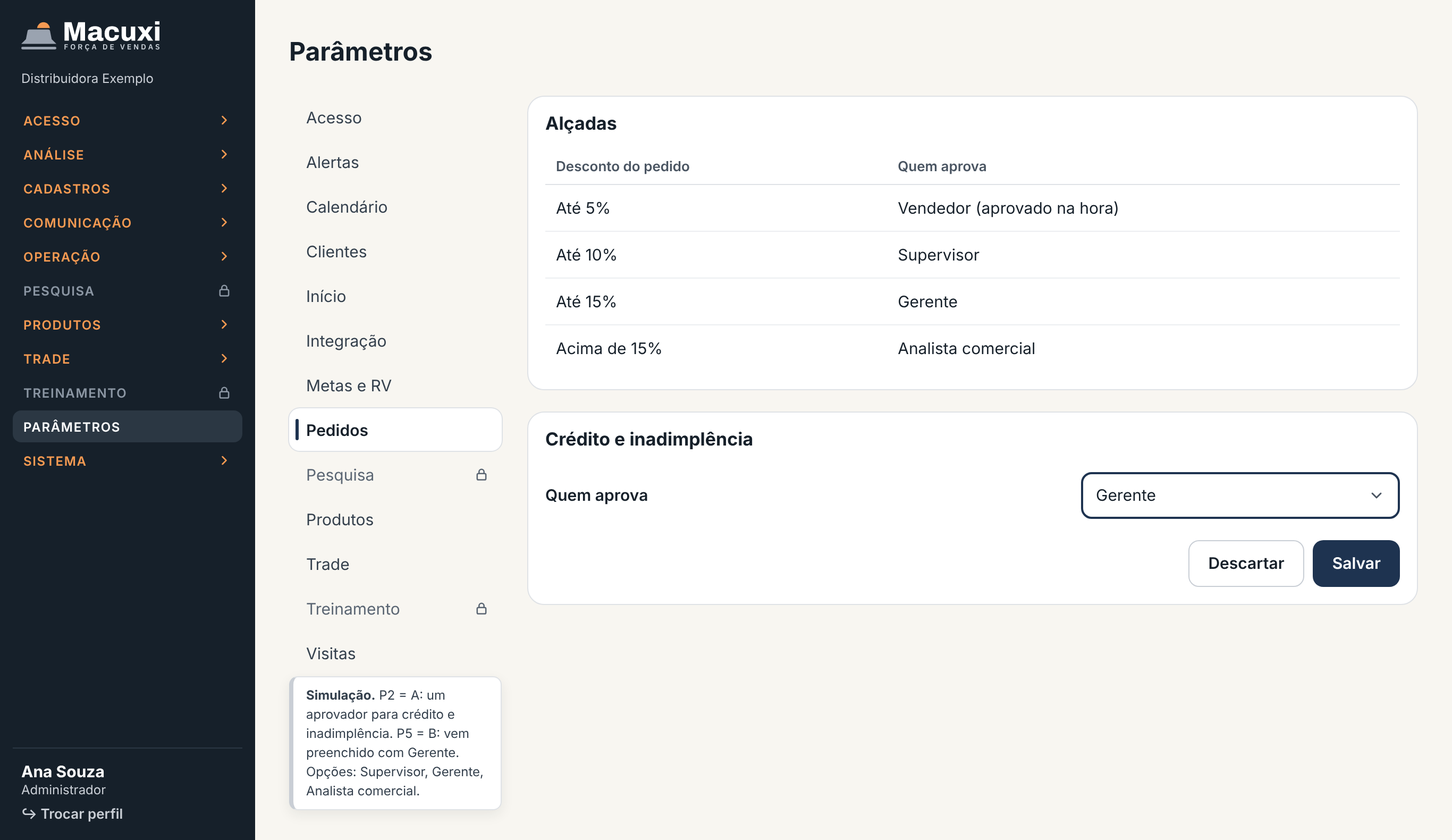
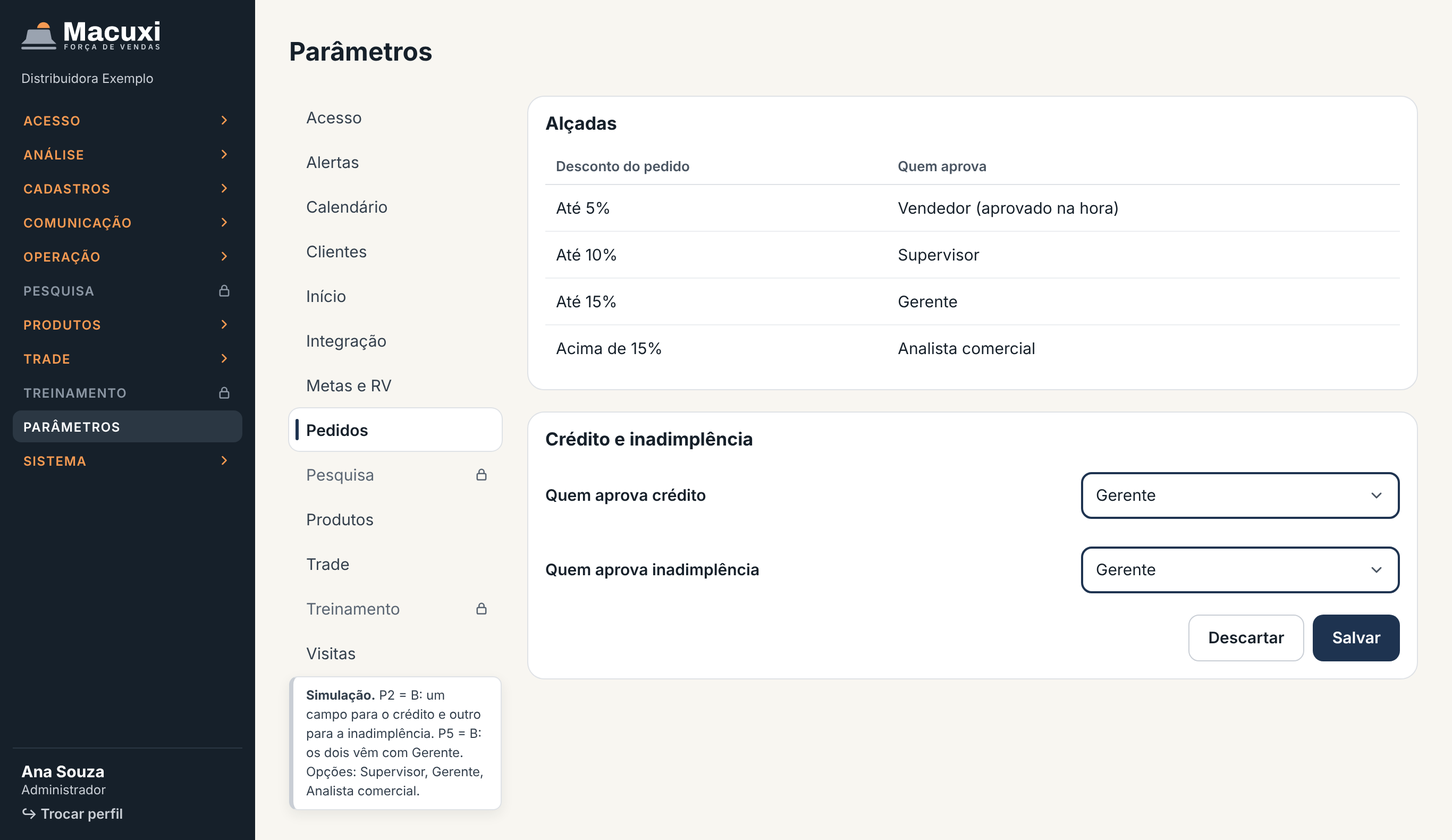
designer-ux — v1.0.15 simulações: decisões P1-P6 nas pranchas 01-03, P7 e P8 abertos, pareceres do #492
- 01: "Quem aprova crédito" e "Quem aprova inadimplência", os dois com Gerente (P2 B, P5 B).
- 02 e 03: uma aprovação por motivo (P3 B); Histórico com cada motivo e quem aprovou, tom destaque (MC-1744);
  recusa em Alertas; fila do Gerente com um item por motivo; "Decidir" em 12.
- spec.md: decisões de 18/11, P7 (ordem) e P8 (rejeição) com recomendação; substitui bko-revisao.md 246-250 e 358-359 (RD-2231).
- RD-2230 Valor final; RD-2232 notas repetidas fora; RD-2235 navegador comum em docs/design/_comum e checagem do app valendo.

Agente: designer-ux

Claude-Session: https://claude.ai/code/session_019xHEXrPzgn3fNKy4GEjQ9e

Changed region(s): [[0.7467, 0.6203, 0.9645, 0.8063], [0.2178, 0.8373, 0.3422, 0.8994], [0.3734, 0.6513, 0.5289, 0.6823]]

diff --git a/docs/design/pedido-aprovacao/01-bko-parametros-pedidos.html b/docs/design/pedido-aprovacao/01-bko-parametros-pedidos.html
@@ -109,10 +109,11 @@ table.ped .vz{color:#5B6673}
 .acs .sel{width:196px;height:36px;border-radius:8px;padding:0 10px}
 .acs .sel.vazia span{color:#5B6673}
 .b{height:36px;border-radius:8px;padding:0 14px;font-size:15px;font-weight:600;display:inline-flex;align-items:center;white-space:nowrap;border:1px solid #C9CED5;background:#fff;color:#16202A}
-</style><body><nav class="menu"><div class="brand"><img src="../../marca/ativos/2026-11-12-v1/macuxi-logo-negativo-grafite.svg" height="28" alt="Macuxi Força de Vendas"><span>Distribuidora Exemplo</span></div><div class="lista"><div class="grupo"><div class="titulo" aria-expanded="false"><span>Acesso</span><svg width="14" height="14" viewBox="0 0 24 24" fill="none" stroke="currentColor" stroke-width="2.2" stroke-linecap="round" stroke-linejoin="round" style="transform:rotate(0deg)"><path d="M9 6l6 6-6 6"/></svg></div></div><div class="grupo"><div class="titulo" aria-expanded="false"><span>Análise</span><svg width="14" height="14" viewBox="0 0 24 24" fill="none" stroke="currentColor" stroke-width="2.2" stroke-linecap="round" stroke-linejoin="round" style="transform:rotate(0deg)"><path d="M9 6l6 6-6 6"/></svg></div></div><div class="grupo"><div class="titulo" aria-expanded="false"><span>Cadastros</span><svg width="14" height="14" viewBox="0 0 24 24" fill="none" stroke="currentColor" stroke-width="2.2" stroke-linecap="round" stroke-linejoin="round" style="transform:rotate(0deg)"><path d="M9 6l6 6-6 6"/></svg></div></div><div class="grupo"><div class="titulo" aria-expanded="false"><span>Comunicação</span><svg width="14" height="14" viewBox="0 0 24 24" fill="none" stroke="currentColor" stroke-width="2.2" stroke-linecap="round" stroke-linejoin="round" style="transform:rotate(0deg)"><path d="M9 6l6 6-6 6"/></svg></div></div><div class="grupo"><div class="titulo" aria-expanded="false"><span>Operação</span><svg width="14" height="14" viewBox="0 0 24 24" fill="none" stroke="currentColor" stroke-width="2.2" stroke-linecap="round" stroke-linejoin="round" style="transform:rotate(0deg)"><path d="M9 6l6 6-6 6"/></svg></div></div><div class="titulo bloq" id="m-pesquisa" role="link" aria-disabled="true" aria-describedby="dica" tabindex="0"><span>Pesquisa</span><svg class="cad" width="14" height="14" viewBox="0 0 24 24" fill="none" stroke="currentColor" stroke-width="2.2" stroke-linecap="round" stroke-linejoin="round" aria-hidden="true"><rect x="5" y="11" width="14" height="10" rx="2"/><path d="M8 11V8a4 4 0 0 1 8 0v3"/></svg></div><div class="grupo"><div class="titulo" aria-expanded="false"><span>Produtos</span><svg width="14" height="14" viewBox="0 0 24 24" fill="none" stroke="currentColor" stroke-width="2.2" stroke-linecap="round" stroke-linejoin="round" style="transform:rotate(0deg)"><path d="M9 6l6 6-6 6"/></svg></div></div><div class="grupo"><div class="titulo" aria-expanded="false"><span>Trade</span><svg width="14" height="14" viewBox="0 0 24 24" fill="none" stroke="currentColor" stroke-width="2.2" stroke-linecap="round" stroke-linejoin="round" style="transform:rotate(0deg)"><path d="M9 6l6 6-6 6"/></svg></div></div><div class="titulo bloq" id="m-treinamento" role="link" aria-disabled="true" aria-describedby="dica" tabindex="0"><span>Treinamento</span><svg class="cad" width="14" height="14" viewBox="0 0 24 24" fill="none" stroke="currentColor" stroke-width="2.2" stroke-linecap="round" stroke-linejoin="round" aria-hidden="true"><rect x="5" y="11" width="14" height="10" rx="2"/><path d="M8 11V8a4 4 0 0 1 8 0v3"/></svg></div><a class="titulo direto ativo" aria-current="page"><span>Parâmetros</span></a><div class="grupo"><div class="titulo" aria-expanded="false"><span>Sistema</span><svg width="14" height="14" viewBox="0 0 24 24" fill="none" stroke="currentColor" stroke-width="2.2" stroke-linecap="round" stroke-linejoin="round" style="transform:rotate(0deg)"><path d="M9 6l6 6-6 6"/></svg></div></div></div><div class="rodape"><b>Ana Souza</b><span>Administrador</span><div class="sair">↪ Trocar perfil</div></div></nav><div class="dica" id="dica" role="tooltip" hidden>Contrate o módulo para usar</div><main><h1>Parâmetros</h1><div class="corpo"><nav class="secoes" aria-label="Seções de Parâmetros"><a class="sec">Acesso</a><a class="sec">Alertas</a><a class="sec">Calendário</a><a class="sec">Clientes</a><a class="sec">Início</a><a class="sec">Integração</a><a class="sec">Metas e RV</a><a class="sec ativo" aria-current="page">Pedidos</a><a class="sec bloq"><span>Pesquisa</span><svg class="cad" width="14" height="14" viewBox="0 0 24 24" fill="none" stroke="currentColor" stroke-width="2.2" stroke-linecap="round" stroke-linejoin="round" aria-hidden="true"><rect x="5" y="11" width="14" height="10" rx="2"/><path d="M8 11V8a4 4 0 0 1 8 0v3"/></svg></a><a class="sec">Produtos</a><a class="sec">Trade</a><a class="sec bloq"><span>Treinamento</span><svg class="cad" width="14" height="14" viewBox="0 0 24 24" fill="none" stroke="currentColor" stroke-width="2.2" stroke-linecap="round" stroke-linejoin="round" aria-hidden="true"><rect x="5" y="11" width="14" height="10" rx="2"/><path d="M8 11V8a4 4 0 0 1 8 0v3"/></svg></a><a class="sec">Visitas</a><div class="nota"><b>Simulação.</b> P2 = A: um aprovador para crédito e inadimplência. P5 = B: vem preenchido com Gerente. Opções: Supervisor, Gerente, Analista comercial.</div></nav><div class="conteudo"><section class="quadro"><h2>Alçadas</h2><table><colgroup><col style="width:40%"><col></colgroup><thead><tr><th>Desconto do pedido</th><th>Quem aprova</th></tr></thead><tbody>
+</style><body><nav class="menu"><div class="brand"><img src="../../marca/ativos/2026-11-12-v1/macuxi-logo-negativo-grafite.svg" height="28" alt="Macuxi Força de Vendas"><span>Distribuidora Exemplo</span></div><div class="lista"><div class="grupo"><div class="titulo" aria-expanded="false"><span>Acesso</span><svg width="14" height="14" viewBox="0 0 24 24" fill="none" stroke="currentColor" stroke-width="2.2" stroke-linecap="round" stroke-linejoin="round" style="transform:rotate(0deg)"><path d="M9 6l6 6-6 6"/></svg></div></div><div class="grupo"><div class="titulo" aria-expanded="false"><span>Análise</span><svg width="14" height="14" viewBox="0 0 24 24" fill="none" stroke="currentColor" stroke-width="2.2" stroke-linecap="round" stroke-linejoin="round" style="transform:rotate(0deg)"><path d="M9 6l6 6-6 6"/></svg></div></div><div class="grupo"><div class="titulo" aria-expanded="false"><span>Cadastros</span><svg width="14" height="14" viewBox="0 0 24 24" fill="none" stroke="currentColor" stroke-width="2.2" stroke-linecap="round" stroke-linejoin="round" style="transform:rotate(0deg)"><path d="M9 6l6 6-6 6"/></svg></div></div><div class="grupo"><div class="titulo" aria-expanded="false"><span>Comunicação</span><svg width="14" height="14" viewBox="0 0 24 24" fill="none" stroke="currentColor" stroke-width="2.2" stroke-linecap="round" stroke-linejoin="round" style="transform:rotate(0deg)"><path d="M9 6l6 6-6 6"/></svg></div></div><div class="grupo"><div class="titulo" aria-expanded="false"><span>Operação</span><svg width="14" height="14" viewBox="0 0 24 24" fill="none" stroke="currentColor" stroke-width="2.2" stroke-linecap="round" stroke-linejoin="round" style="transform:rotate(0deg)"><path d="M9 6l6 6-6 6"/></svg></div></div><div class="titulo bloq" id="m-pesquisa" role="link" aria-disabled="true" aria-describedby="dica" tabindex="0"><span>Pesquisa</span><svg class="cad" width="14" height="14" viewBox="0 0 24 24" fill="none" stroke="currentColor" stroke-width="2.2" stroke-linecap="round" stroke-linejoin="round" aria-hidden="true"><rect x="5" y="11" width="14" height="10" rx="2"/><path d="M8 11V8a4 4 0 0 1 8 0v3"/></svg></div><div class="grupo"><div class="titulo" aria-expanded="false"><span>Produtos</span><svg width="14" height="14" viewBox="0 0 24 24" fill="none" stroke="currentColor" stroke-width="2.2" stroke-linecap="round" stroke-linejoin="round" style="transform:rotate(0deg)"><path d="M9 6l6 6-6 6"/></svg></div></div><div class="grupo"><div class="titulo" aria-expanded="false"><span>Trade</span><svg width="14" height="14" viewBox="0 0 24 24" fill="none" stroke="currentColor" stroke-width="2.2" stroke-linecap="round" stroke-linejoin="round" style="transform:rotate(0deg)"><path d="M9 6l6 6-6 6"/></svg></div></div><div class="titulo bloq" id="m-treinamento" role="link" aria-disabled="true" aria-describedby="dica" tabindex="0"><span>Treinamento</span><svg class="cad" width="14" height="14" viewBox="0 0 24 24" fill="none" stroke="currentColor" stroke-width="2.2" stroke-linecap="round" stroke-linejoin="round" aria-hidden="true"><rect x="5" y="11" width="14" height="10" rx="2"/><path d="M8 11V8a4 4 0 0 1 8 0v3"/></svg></div><a class="titulo direto ativo" aria-current="page"><span>Parâmetros</span></a><div class="grupo"><div class="titulo" aria-expanded="false"><span>Sistema</span><svg width="14" height="14" viewBox="0 0 24 24" fill="none" stroke="currentColor" stroke-width="2.2" stroke-linecap="round" stroke-linejoin="round" style="transform:rotate(0deg)"><path d="M9 6l6 6-6 6"/></svg></div></div></div><div class="rodape"><b>Ana Souza</b><span>Administrador</span><div class="sair">↪ Trocar perfil</div></div></nav><div class="dica" id="dica" role="tooltip" hidden>Contrate o módulo para usar</div><main><h1>Parâmetros</h1><div class="corpo"><nav class="secoes" aria-label="Seções de Parâmetros"><a class="sec">Acesso</a><a class="sec">Alertas</a><a class="sec">Calendário</a><a class="sec">Clientes</a><a class="sec">Início</a><a class="sec">Integração</a><a class="sec">Metas e RV</a><a class="sec ativo" aria-current="page">Pedidos</a><a class="sec bloq"><span>Pesquisa</span><svg class="cad" width="14" height="14" viewBox="0 0 24 24" fill="none" stroke="currentColor" stroke-width="2.2" stroke-linecap="round" stroke-linejoin="round" aria-hidden="true"><rect x="5" y="11" width="14" height="10" rx="2"/><path d="M8 11V8a4 4 0 0 1 8 0v3"/></svg></a><a class="sec">Produtos</a><a class="sec">Trade</a><a class="sec bloq"><span>Treinamento</span><svg class="cad" width="14" height="14" viewBox="0 0 24 24" fill="none" stroke="currentColor" stroke-width="2.2" stroke-linecap="round" stroke-linejoin="round" aria-hidden="true"><rect x="5" y="11" width="14" height="10" rx="2"/><path d="M8 11V8a4 4 0 0 1 8 0v3"/></svg></a><a class="sec">Visitas</a><div class="nota"><b>Simulação.</b> P2 = B: um campo para o crédito e outro para a inadimplência. P5 = B: os dois vêm com Gerente. Opções: Supervisor, Gerente, Analista comercial.</div></nav><div class="conteudo"><section class="quadro"><h2>Alçadas</h2><table><colgroup><col style="width:40%"><col></colgroup><thead><tr><th>Desconto do pedido</th><th>Quem aprova</th></tr></thead><tbody>
 <tr><td>Até 5%</td><td>Vendedor (aprovado na hora)</td></tr><tr><td>Até 10%</td><td>Supervisor</td></tr><tr><td>Até 15%</td><td>Gerente</td></tr><tr><td>Acima de 15%</td><td>Analista comercial</td></tr>
 </tbody></table></section><section class="quadro"><h2>Crédito e inadimplência</h2>
-<div class="linha"><b>Quem aprova</b><div class="sel editado" role="combobox" aria-label="Quem aprova o pedido por crédito ou inadimplência"><span>Gerente</span><svg width="16" height="16" viewBox="0 0 24 24" fill="none" stroke="currentColor" stroke-width="2.2" stroke-linecap="round" stroke-linejoin="round"><path d="M6 9l6 6 6-6"/></svg></div></div>
+<div class="linha"><b>Quem aprova crédito</b><div class="sel editado" role="combobox" aria-label="Quem aprova o pedido por crédito"><span>Gerente</span><svg width="16" height="16" viewBox="0 0 24 24" fill="none" stroke="currentColor" stroke-width="2.2" stroke-linecap="round" stroke-linejoin="round"><path d="M6 9l6 6 6-6"/></svg></div></div>
+<div class="linha"><b>Quem aprova inadimplência</b><div class="sel editado" role="combobox" aria-label="Quem aprova o pedido de cliente inadimplente"><span>Gerente</span><svg width="16" height="16" viewBox="0 0 24 24" fill="none" stroke="currentColor" stroke-width="2.2" stroke-linecap="round" stroke-linejoin="round"><path d="M6 9l6 6 6-6"/></svg></div></div>
 <div class="acoes"><span class="btn s">Descartar</span><span class="btn p">Salvar</span></div></section></div></div></main><script>document.fonts.ready.then(()=>{const d=document.getElementById('dica'),t=document.querySelector('[data-dica]');if(t&&!d.hidden){const r=t.getBoundingClientRect();d.style.left=(r.right+10)+'px';d.style.top=(r.top+r.height/2-d.offsetHeight/2)+'px';}
 const sobre=[...document.querySelectorAll('.dica:not([hidden]),.nota')].map(e=>e.getBoundingClientRect());const conflitos=[];
 for(const el of document.querySelectorAll('main *')){if(el.closest('.nota'))continue;if(el.children.length&&!el.matches('td,th,.input,.btn,.selo,h1,h2,legend,small,.dia,.sec'))continue;const r=el.getBoundingClientRect();if(!r.width||!r.height)continue;for(const s of sobre){if(r.left<s.right&&r.right>s.left&&r.top<s.bottom&&r.bottom>s.top)conflitos.push(el.tagName+'.'+el.className+': '+el.textContent.trim().slice(0,30));}}

diff --git a/docs/design/pedido-aprovacao/02-campo-enviar-e-detalhe.html b/docs/design/pedido-aprovacao/02-campo-enviar-e-detalhe.html
@@ -20,7 +20,9 @@ body{font-family:system-ui,'Segoe UI',Roboto,-apple-system,sans-serif;background
 .tl{display:flex;justify-content:space-between;align-items:center;gap:8px;min-height:40px;padding:0 12px;font-size:14px;border-bottom:1px solid #ECEEF1}
 .tl:last-child{border-bottom:0}
 .tl span:last-child{font-variant-numeric:tabular-nums;text-align:right}
-.tl.f{font-weight:600;font-size:16px}
+.tl.f{min-height:48px}
+.tl.f span:first-child{font-size:15px;font-weight:600}
+.tl.f span:last-child{font-size:22px;font-weight:700}
 .rod{padding:12px 16px 16px;background:#fff;border-top:1px solid #DFE2E6;display:flex;flex-direction:column;gap:8px}
 .bt{height:52px;border-radius:14px;background:#1E3350;color:#fff;font-size:16px;font-weight:600;display:flex;align-items:center;justify-content:center}
 .bt.t{background:none;color:#1E3350;height:44px}
@@ -29,10 +31,12 @@ body{font-family:system-ui,'Segoe UI',Roboto,-apple-system,sans-serif;background
 .dlg h2{font-size:22px;font-weight:700}
 .dlg .bts{display:flex;justify-content:flex-end;gap:8px}
 .dlg .bt{height:44px;padding:0 20px;border-radius:12px}
+/* Tags do Histórico (packages/ui/src/comum/historico.ts): neutro, destaque (etapa atual, MC-1744), sucesso, erro; 12 px. */
 .hist{display:flex;flex-wrap:wrap;gap:6px}
-.tag{height:28px;border-radius:999px;padding:0 10px;font-size:12.5px;display:inline-flex;align-items:center;background:#ECEEF1;color:#34404D;font-weight:500}
-.tag.at{background:#FFF1D6;color:#5C3B00;font-weight:700}
-.tag i{font-style:normal;font-weight:500;margin-left:6px}
+.tag{height:28px;border-radius:999px;padding:0 10px;font-size:12px;display:inline-flex;align-items:center;background:#ECEEF1;color:#34404D;font-weight:500;white-space:nowrap}
+.tag.at{background:#DFE2E6;color:#1E3350;font-weight:600}
+.tag.ok{background:#E2F1EA;color:#1D6B4F}
+.tag.er{background:#FDE8E6;color:#A8261B}
 .it{display:flex;flex-direction:column;gap:6px;padding:12px 16px;border-bottom:1px solid #ECEEF1}
 .it:last-child{border-bottom:0}
 .it .a{display:flex;justify-content:space-between;gap:8px;font-size:16px;font-weight:600}
@@ -41,22 +45,35 @@ body{font-family:system-ui,'Segoe UI',Roboto,-apple-system,sans-serif;background
 .it .c{display:flex;justify-content:space-between;align-items:center}
 .chip{height:24px;border-radius:999px;padding:0 8px;font-size:12px;font-weight:600;display:inline-flex;align-items:center;background:#FFF1D6;color:#5C3B00}
 .chip.ne{background:#ECEEF1;color:#34404D}
-.dec{font-size:14px;font-weight:600;color:#1E3350}
+.dec{font-size:12px;font-weight:600;color:#1E3350;min-height:44px;min-width:64px;display:inline-flex;align-items:center;justify-content:flex-end}
 .nota{font-size:12px;line-height:1.5;color:#34404D;background:#fff;border:1px solid #DFE2E6;border-left:4px solid #C9CED5;border-radius:8px;padding:8px 12px}
 .barra{height:56px;background:#fff;border-top:1px solid #DFE2E6;display:flex}
 .barra span{flex:1;display:flex;align-items:center;justify-content:center;font-size:12px;font-weight:600;color:#4A5562}
 .barra span.on{color:#1E3350}
-</style><body><div class="col"><span class="leg">Campo · Novo pedido, Resumo: os motivos em Alertas e a pergunta de sempre</span><div class="tel"><div class="st"><span>09:41</span><span>4G</span></div><div class="fx"><span class="v">‹ Pedidos</span><h1>Novo pedido</h1><span class="s">Mercado Bom Preço · cód. C5007</span></div>
+</style><body><div class="col"><span class="leg">Campo · Novo pedido, Resumo: os motivos em Alertas e a pergunta de sempre</span><div class="tel"><div class="st"><span>09:12</span><span>4G</span></div><div class="fx"><span class="v">‹ Pedidos</span><h1>Novo pedido</h1><span class="s">Mercado Bom Preço · cód. C5007</span></div>
 <div class="abas"><span class="aba">Venda</span><span class="aba">Itens</span><span class="aba">Entrega</span><span class="aba on">Resumo</span></div>
 <div class="corpo"><span class="tit al">Alertas</span><div class="cx">
 <div class="al-l"><svg width="18" height="18" viewBox="0 0 24 24" fill="none" stroke="currentColor" stroke-width="2.2" stroke-linecap="round" stroke-linejoin="round"><path d="M12 3l10 18H2z"/><path d="M12 10v5M12 18v.01"/></svg><span>Limite de crédito excedido</span></div>
 <div class="al-l"><svg width="18" height="18" viewBox="0 0 24 24" fill="none" stroke="currentColor" stroke-width="2.2" stroke-linecap="round" stroke-linejoin="round"><path d="M12 3l10 18H2z"/><path d="M12 10v5M12 18v.01"/></svg><span>Título vencido</span></div></div>
 <span class="tit">Pagamento</span><div class="cx"><div class="tl"><span>Boleto</span><span>28/56 dias</span></div></div>
-<span class="tit">Totais</span><div class="cx"><div class="tl"><span>Itens (12)</span><span>R$ 2.480,00</span></div><div class="tl f"><span>Total</span><span>R$ 2.480,00</span></div></div></div>
+<span class="tit">Totais</span><div class="cx"><div class="tl f"><span>Valor final</span><span>R$ 2.480,00</span></div></div></div>
 <div class="rod"><span class="bt">Salvar e enviar pedido</span><span class="bt t">Apenas salvar</span></div>
-<div class="scrim"><div class="dlg"><h2>Enviar para aprovação?</h2><div class="bts"><span class="bt t">Voltar</span><span class="bt">Enviar</span></div></div></div></div><div class="nota">Os textos de Alertas já existem (pedido-v4 §0.1). Muda o efeito: crédito e título vencido mandam para aprovação, como a alçada.</div></div><div class="col"><span class="leg">Campo · Pedido em aprovação: o motivo na etapa atual do Histórico</span><div class="tel"><div class="st"><span>09:41</span><span>4G</span></div><div class="fx"><span class="v">‹ Pedidos</span><h1>Pedido 000021</h1><span class="s">Mercado Bom Preço · cód. C5007</span></div>
+<div class="scrim"><div class="dlg"><h2>Enviar para aprovação?</h2><div class="bts"><span class="bt t">Voltar</span><span class="bt">Enviar</span></div></div></div></div></div><div class="col"><span class="leg">Campo · Em aprovação: uma etapa por motivo, aprovadas ao mesmo tempo (P3 B, P7 A)</span><div class="tel"><div class="st"><span>10:10</span><span>4G</span></div><div class="fx"><span class="v">‹ Pedidos</span><h1>Pedido 000021</h1><span class="s">Mercado Bom Preço · cód. C5007</span></div>
 <div class="corpo"><div class="cx"><div class="tl"><span>Pagamento</span><span>Boleto · 28/56 dias</span></div><div class="tl"><span>Entrega</span><span>CIF · Av. Ville Roy, 1200</span></div></div>
 <span class="tit">Itens (12)</span><div class="cx"><div class="tl"><span>Arroz 5 kg · 10 CX</span><span>R$ 1.290,00</span></div><div class="tl"><span>Feijão 1 kg · 8 CX</span><span>R$ 742,00</span></div><div class="tl"><span>+ 10 itens</span><span></span></div></div>
-<span class="tit">Totais</span><div class="cx"><div class="tl f"><span>Total</span><span>R$ 2.480,00</span></div></div>
-<span class="tit">Histórico</span><div class="hist"><span class="tag">Salvo · 18/11 09:10</span><span class="tag">Enviado · 18/11 09:12</span><span class="tag at">Em aprovação<i>· Crédito · Inadimplente</i></span></div></div>
-<div class="rod"><span class="bt t">PDF · Duplicar</span></div></div><div class="nota">Sem Alertas: o pedido em aprovação não tem o que corrigir. O motivo aparece uma vez, na etapa "Em aprovação".</div></div><script>document.body.dataset.info=JSON.stringify({conflitos:[]});document.body.dataset.pronto='1'</script></body></html>
+<span class="tit">Totais</span><div class="cx"><div class="tl f"><span>Valor final</span><span>R$ 2.480,00</span></div></div>
+<span class="tit">Histórico</span><div class="hist"><span class="tag">Salvo · 18/11 09:10</span><span class="tag">Enviado · 18/11 09:12</span><span class="tag ok">Aprovado · Inadimplente · Rui Matos · 18/11 10:05</span><span class="tag at">Em aprovação · Crédito</span></div></div>
+<div class="rod"><span class="bt t">PDF · Duplicar</span></div></div></div><div class="col"><span class="leg">Campo · Crédito devolvido: a aprovação pendente se encerra e o pedido volta para corrigir (P8 A)</span><div class="tel"><div class="st"><span>10:25</span><span>4G</span></div><div class="fx"><span class="v">‹ Pedidos</span><h1>Pedido 000021</h1><span class="s">Mercado Bom Preço · cód. C5007</span></div>
+<div class="corpo"><span class="tit al">Alertas</span><div class="cx"><div class="al-l"><svg width="18" height="18" viewBox="0 0 24 24" fill="none" stroke="currentColor" stroke-width="2.2" stroke-linecap="round" stroke-linejoin="round"><path d="M12 3l10 18H2z"/><path d="M12 10v5M12 18v.01"/></svg><span>Reduza para até R$ 1.880,00</span></div></div><div class="cx"><div class="tl"><span>Pagamento</span><span>Boleto · 28/56 dias</span></div><div class="tl"><span>Entrega</span><span>CIF · Av. Ville Roy, 1200</span></div></div>
+<span class="tit">Itens (12)</span><div class="cx"><div class="tl"><span>Arroz 5 kg · 10 CX</span><span>R$ 1.290,00</span></div><div class="tl"><span>Feijão 1 kg · 8 CX</span><span>R$ 742,00</span></div><div class="tl"><span>+ 10 itens</span><span></span></div></div>
+<span class="tit">Totais</span><div class="cx"><div class="tl f"><span>Valor final</span><span>R$ 2.480,00</span></div></div>
+<span class="tit">Histórico</span><div class="hist"><span class="tag">Salvo · 18/11 09:10</span><span class="tag">Enviado · 18/11 09:12</span><span class="tag er">Rejeitado · Crédito · Rui Matos · 18/11 10:20</span></div></div>
+<div class="rod"><span class="bt">Corrigir pedido</span></div></div></div><script>(()=>{const conflitos=[];
+for(const col of document.querySelectorAll('.col')){const tel=col.querySelector('.tel').getBoundingClientRect();
+const sobre=[...col.querySelectorAll('.leg,.nota')].map(e=>[e.className,e.getBoundingClientRect()]);
+for(const el of col.querySelectorAll('.tel *')){if(el.children.length&&!el.matches('.tag,.chip,.bt,.dec,h1,h2'))continue;
+const r=el.getBoundingClientRect();if(!r.width||!r.height)continue;const t=el.className+': '+el.textContent.trim().slice(0,30);
+for(const [n,s] of sobre){if(r.left<s.right&&r.right>s.left&&r.top<s.bottom&&r.bottom>s.top)conflitos.push(n+' cobre '+t);}
+if(r.left<tel.left-1||r.right>tel.right+1||r.top<tel.top-1||r.bottom>tel.bottom+1)conflitos.push('fora do aparelho: '+t);
+if(el.scrollWidth>el.clientWidth+1&&getComputedStyle(el).overflow!=='visible')conflitos.push('cortado: '+t);}}
+document.body.dataset.info=JSON.stringify({conflitos});document.body.dataset.pronto='1';})()</script></body></html>

diff --git a/docs/design/pedido-aprovacao/03-gestao-aprovacoes.html b/docs/design/pedido-aprovacao/03-gestao-aprovacoes.html
@@ -20,7 +20,9 @@ body{font-family:system-ui,'Segoe UI',Roboto,-apple-system,sans-serif;background
 .tl{display:flex;justify-content:space-between;align-items:center;gap:8px;min-height:40px;padding:0 12px;font-size:14px;border-bottom:1px solid #ECEEF1}
 .tl:last-child{border-bottom:0}
 .tl span:last-child{font-variant-numeric:tabular-nums;text-align:right}
-.tl.f{font-weight:600;font-size:16px}
+.tl.f{min-height:48px}
+.tl.f span:first-child{font-size:15px;font-weight:600}
+.tl.f span:last-child{font-size:22px;font-weight:700}
 .rod{padding:12px 16px 16px;background:#fff;border-top:1px solid #DFE2E6;display:flex;flex-direction:column;gap:8px}
 .bt{height:52px;border-radius:14px;background:#1E3350;color:#fff;font-size:16px;font-weight:600;display:flex;align-items:center;justify-content:center}
 .bt.t{background:none;color:#1E3350;height:44px}
@@ -29,10 +31,12 @@ body{font-family:system-ui,'Segoe UI',Roboto,-apple-system,sans-serif;background
 .dlg h2{font-size:22px;font-weight:700}
 .dlg .bts{display:flex;justify-content:flex-end;gap:8px}
 .dlg .bt{height:44px;padding:0 20px;border-radius:12px}
+/* Tags do Histórico (packages/ui/src/comum/historico.ts): neutro, destaque (etapa atual, MC-1744), sucesso, erro; 12 px. */
 .hist{display:flex;flex-wrap:wrap;gap:6px}
-.tag{height:28px;border-radius:999px;padding:0 10px;font-size:12.5px;display:inline-flex;align-items:center;background:#ECEEF1;color:#34404D;font-weight:500}
-.tag.at{background:#FFF1D6;color:#5C3B00;font-weight:700}
-.tag i{font-style:normal;font-weight:500;margin-left:6px}
+.tag{height:28px;border-radius:999px;padding:0 10px;font-size:12px;display:inline-flex;align-items:center;background:#ECEEF1;color:#34404D;font-weight:500;white-space:nowrap}
+.tag.at{background:#DFE2E6;color:#1E3350;font-weight:600}
+.tag.ok{background:#E2F1EA;color:#1D6B4F}
+.tag.er{background:#FDE8E6;color:#A8261B}
 .it{display:flex;flex-direction:column;gap:6px;padding:12px 16px;border-bottom:1px solid #ECEEF1}
 .it:last-child{border-bottom:0}
 .it .a{display:flex;justify-content:space-between;gap:8px;font-size:16px;font-weight:600}
@@ -41,14 +45,22 @@ body{font-family:system-ui,'Segoe UI',Roboto,-apple-system,sans-serif;background
 .it .c{display:flex;justify-content:space-between;align-items:center}
 .chip{height:24px;border-radius:999px;padding:0 8px;font-size:12px;font-weight:600;display:inline-flex;align-items:center;background:#FFF1D6;color:#5C3B00}
 .chip.ne{background:#ECEEF1;color:#34404D}
-.dec{font-size:14px;font-weight:600;color:#1E3350}
+.dec{font-size:12px;font-weight:600;color:#1E3350;min-height:44px;min-width:64px;display:inline-flex;align-items:center;justify-content:flex-end}
 .nota{font-size:12px;line-height:1.5;color:#34404D;background:#fff;border:1px solid #DFE2E6;border-left:4px solid #C9CED5;border-radius:8px;padding:8px 12px}
 .barra{height:56px;background:#fff;border-top:1px solid #DFE2E6;display:flex}
 .barra span{flex:1;display:flex;align-items:center;justify-content:center;font-size:12px;font-weight:600;color:#4A5562}
 .barra span.on{color:#1E3350}
-</style><body><div class="col"><span class="leg">Gestão · Aprovações: a linha de motivos ganha "Inadimplente há N dias"</span><div class="tel"><div class="st"><span>09:41</span><span>4G</span></div><div class="fx"><h1>Aprovações</h1><span class="s">3 aguardando</span></div>
+</style><body><div class="col"><span class="leg">Gestão · Aprovações do Gerente: um item por motivo, só os motivos dele (P3 B)</span><div class="tel"><div class="st"><span>09:41</span><span>4G</span></div><div class="fx"><h1>Aprovações</h1><span class="s">3 aguardando</span></div>
 <div class="corpo" style="padding:12px 0 0"><div class="cx" style="border-radius:0;border-left:0;border-right:0">
-<div class="it"><div class="a"><span>Mercado Bom Preço</span><span>R$ 2.480,00</span></div><span class="m">Crédito disponível R$ 1.880,00 · Inadimplente há 12 dias</span><div class="c"><span class="chip">Vence hoje</span><span class="dec">Decidir</span></div></div>
-<div class="it"><div class="a"><span>Supermercado Rio Branco</span><span>R$ 1.150,00</span></div><span class="m">Desconto 12%</span><div class="c"><span class="chip ne">1 dia útil</span><span class="dec">Decidir</span></div></div>
-<div class="it"><div class="a"><span>Empório Caxangá</span><span>R$ 3.310,00</span></div><span class="m">Desconto 9% · Crédito disponível R$ 2.000,00</span><div class="c"><span class="chip ne">2 dias úteis</span><span class="dec">Decidir</span></div></div>
-</div></div><div class="barra"><span>Início</span><span>Equipe</span><span class="on">Aprovações</span><span>Alertas</span></div></div><div class="nota">P3 = A: um pedido, uma aprovação, todos os motivos na linha. O 1º item é o pedido 000021 do Campo.</div></div><script>document.body.dataset.info=JSON.stringify({conflitos:[]});document.body.dataset.pronto='1'</script></body></html>
+<div class="it"><div class="a"><span>Mercado Bom Preço</span><span>R$ 2.480,00</span></div><span class="m">Nº 000021 · Crédito disponível R$ 1.880,00</span><div class="c"><span class="chip">Vence hoje</span><span class="dec">Decidir</span></div></div>
+<div class="it"><div class="a"><span>Mercado Bom Preço</span><span>R$ 2.480,00</span></div><span class="m">Nº 000021 · Inadimplente há 12 dias</span><div class="c"><span class="chip">Vence hoje</span><span class="dec">Decidir</span></div></div>
+<div class="it"><div class="a"><span>Supermercado Rio Branco</span><span>R$ 1.150,00</span></div><span class="m">Nº 000020 · Desconto 12%</span><div class="c"><span class="chip ne">1 dia útil</span><span class="dec">Decidir</span></div></div>
+</div></div><div class="barra"><span>Início</span><span>Equipe</span><span class="on">Aprovações</span><span>Alertas</span></div></div><div class="nota">O 000020 está aqui pela alçada: desconto de 12% cabe no Gerente (até 15%).</div></div><script>(()=>{const conflitos=[];
+for(const col of document.querySelectorAll('.col')){const tel=col.querySelector('.tel').getBoundingClientRect();
+const sobre=[...col.querySelectorAll('.leg,.nota')].map(e=>[e.className,e.getBoundingClientRect()]);
+for(const el of col.querySelectorAll('.tel *')){if(el.children.length&&!el.matches('.tag,.chip,.bt,.dec,h1,h2'))continue;
+const r=el.getBoundingClientRect();if(!r.width||!r.height)continue;const t=el.className+': '+el.textContent.trim().slice(0,30);
+for(const [n,s] of sobre){if(r.left<s.right&&r.right>s.left&&r.top<s.bottom&&r.bottom>s.top)conflitos.push(n+' cobre '+t);}
+if(r.left<tel.left-1||r.right>tel.right+1||r.top<tel.top-1||r.bottom>tel.bottom+1)conflitos.push('fora do aparelho: '+t);
+if(el.scrollWidth>el.clientWidth+1&&getComputedStyle(el).overflow!=='visible')conflitos.push('cortado: '+t);}}
+document.body.dataset.info=JSON.stringify({conflitos});document.body.dataset.pronto='1';})()</script></body></html>

diff --git a/docs/design/pedido-aprovacao/spec.md b/docs/design/pedido-aprovacao/spec.md
@@ -5,28 +5,40 @@ R-20261116-143000 e R-20261118-212716 (tabela simples de Pedidos). Gerador: `nod
 
 | Prancha | O que mostra |
 |---|---|
-| `01-bko-parametros-pedidos.png` | Parâmetros › Pedidos: Alçadas (#412, como está) e o quadro novo **Crédito e inadimplência** com o campo **Quem aprova** |
-| `02-campo-enviar-e-detalhe.png` | Campo: Novo pedido com os motivos em Alertas e a pergunta `Enviar para aprovação?`; o pedido em aprovação com o motivo no Histórico |
-| `03-gestao-aprovacoes.png` | Gestão: a fila de Aprovações com os motivos na linha de apoio |
+| `01-bko-parametros-pedidos.png` | Parâmetros › Pedidos: Alçadas (#412, como está) e o quadro novo **Crédito e inadimplência** com **Quem aprova crédito** e **Quem aprova inadimplência** (P2 B) |
+| `02-campo-enviar-e-detalhe.png` | Campo: Novo pedido com os motivos em Alertas e a pergunta `Enviar para aprovação?`; o pedido em aprovação com uma etapa por motivo no Histórico (P3 B, P7 A); o crédito devolvido encerrando a aprovação pendente (P8 A) |
+| `03-gestao-aprovacoes.png` | Gestão: a fila de Aprovações do Gerente, um item por motivo, só os motivos dele (P3 B) |
 | `04-bko-pedidos-tabela.png` | BKO › Operação › Pedidos em 1366×768: as 13 colunas de R-20261118-214740, rolagem horizontal com as pontas fixas |
 | `04b-bko-pedidos-tabela-larga.png` | A mesma tabela em 1920×1080: todas as colunas à vista, sem rolagem |
 
 ## 1. O que muda nas telas
-- **BKO, Parâmetros › Pedidos:** abaixo das Alçadas, o quadro `Crédito e inadimplência` com uma linha: `Quem aprova` + lista
-  suspensa (Supervisor, Gerente, Analista comercial — os mesmos níveis das Alçadas) e Descartar/Salvar. Sem subtítulo nem texto de
+- **BKO, Parâmetros › Pedidos:** abaixo das Alçadas, o quadro `Crédito e inadimplência` com duas linhas (P2 B):
+  `Quem aprova crédito` e `Quem aprova inadimplência`, cada uma com lista suspensa (Supervisor, Gerente, Analista comercial — os
+  mesmos níveis das Alçadas), as duas preenchidas com Gerente (P5 B), e Descartar/Salvar. Sem subtítulo nem texto de
   explicação (§P1, §P9 do menu Parâmetros). O limite não aparece: é o que vem do ERP (RN-VEN-12, resposta 2).
 - **Campo, Novo pedido:** os textos da área Alertas já existem (`pedido-v4.md` §0.1): `Limite de crédito excedido` e
   `Título vencido`. Muda só o efeito: os dois passam a mandar para aprovação, como a alçada, com a mesma pergunta
   `Enviar para aprovação?` (Enviar / Voltar). Nenhum texto novo no Campo.
-- **Campo, pedido em aprovação:** sem Alertas (não há o que corrigir). O motivo aparece **uma vez**, na etapa atual do Histórico:
-  `Em aprovação · Crédito · Inadimplente` (rótulos curtos: Desconto, Crédito, Inadimplente). Gestão e BKO usam o mesmo detalhe.
-- **Gestão, Aprovações:** a linha de motivos (`linhaDeMotivos`) ganha `Inadimplente há N dias`; o crédito continua
-  `Crédito disponível R$ X`. Exige o motivo novo `inadimplencia` em `MotivoAprovacao` (contratos do vendedor e do gestor;
+- **Campo, pedido em aprovação (P3 B):** sem Alertas (não há o que corrigir). Uma etapa por motivo no Histórico, cada motivo
+  **uma vez**: a pendente `Em aprovação · Crédito` no tom `destaque` (Azul noite #1E3350 sobre Azul suave #DFE2E6, 12/600,
+  MC-1744; sem amarelo); a aprovada vira `Aprovado · Inadimplente · Rui Matos · 18/11 10:05` no tom `sucesso` (o autor aparece
+  porque não é o vendedor, `historico.ts`). Rótulos curtos: Desconto, Crédito, Inadimplente. Com P8 A, a devolução de um motivo
+  mostra `Rejeitado · Crédito · Rui Matos · 18/11 10:20` (tom `erro`) com o motivo em 1 linha, a etapa pendente sai e o rodapé
+  traz `Corrigir pedido`. Totais só com `Valor final` (pedido-v4 §5.1; RD-2230). Gestão e BKO usam o mesmo detalhe.
+- **Gestão, Aprovações (P3 B):** um item por motivo; cada aprovador vê só os motivos dele. O item leva o nº do pedido e o
+  motivo: `Nº 000021 · Crédito disponível R$ 1.880,00`, `Nº 000021 · Inadimplente há 12 dias`, `Nº 000020 · Desconto 12%`
+  (o desconto de 12% cai no Gerente pela alçada até 15%). Com crédito e inadimplência no mesmo aprovador (P5 B), o pedido
+  aparece uma vez por motivo, cada um com o seu `Decidir` (12/600, MC-1747). Exige o motivo novo `inadimplencia` em `MotivoAprovacao` (contratos do vendedor e do gestor;
   engenheiro-software decide versão e ADR).
 - **Offline:** o app calcula com os dados da última sincronização e mostra os mesmos alertas; o servidor revalida ao receber
   (critério 4). Nenhuma tela nova.
 - **BKO › Pedidos (tabela, R-20261118-214740):** colunas nesta ordem: Código do cliente · Cliente · UF · Cidade · Nº · Vendedor ·
   Supervisor · Recebido · Valor · Motivo · Observação do pedido · Ações · Situação. Sai o quadro "Aguardando aprovação".
+  - **Substitui** (RD-2231), em `docs/design/telas/bko-revisao.md`, as linhas 246 a 250 (regras 5 e 6 e o "Texto final
+    (Pedidos)": quadro "Aguardando aprovação" em cima; pendente fora da lista, da contagem e do total; select Situação sem
+    "Aguardando aprovação") e as linhas 358 e 359 (decisão h, opções a e b). Vale agora: sem quadro de pendências; o pendente
+    fica na lista, na contagem e no total, com o selo `Aguardando aprovação` e as Ações na linha; o filtro Situação oferece
+    `Aguardando aprovação`. O pendente continua num lugar só (RD-0363): a linha da tabela.
   - **Motivo** vira coluna (`Crédito`, `Inadimplente`, `Desconto 12%`); vazio = `—`, como nas outras tabelas do BKO. A
     **Observação** também usa `—` quando vazia e quebra em até 2 linhas; o Cliente também quebra. Nada com reticências (RD-2233).
   - **Ações** só no pedido `Aguardando aprovação`: lista suspensa (Aprovar, Rejeitar, Devolver ao vendedor; vazia mostra
@@ -49,14 +61,22 @@ R-20261116-143000 e R-20261118-212716 (tabela simples de Pedidos). Gerador: `nod
 Em 1920×1080 (`04b`) as 13 colunas cabem sem rolagem nas três opções.
 
 ## 2. Pontos para o dono do produto (opções A/B e recomendação)
+| Ponto | A | B | Recomendação | Decisão (18/11) |
+|---|---|---|---|---|
+| **P1** Inadimplente com pedido à vista | vai para aprovação (muda a RN-VEN-13) | passa direto, como hoje | **A**: é o que diz a resposta 3 | **A** |
+| **P2** Quem aprova o inadimplente | o mesmo campo do crédito (um campo só: "Crédito e inadimplência") | a tabela de Alçadas | **A**: os dois são risco financeiro; um campo, uma regra | **B**, com dois campos no quadro: "Quem aprova crédito" e "Quem aprova inadimplência" (prancha 01) |
+| **P3** Pedido com mais de um motivo | uma aprovação só, com o aprovador mais alto entre os motivos, e todos os motivos na tela | uma aprovação por motivo, em sequência | **A**: o aprovador decide uma vez vendo tudo | **B** (abre P7 e P8, abaixo) |
+| **P4** Cliente sem limite informado pelo ERP | sem crédito: o pedido a prazo vai para aprovação com o motivo Crédito | sem trava: passa | **A**: mais seguro. Atenção: se o ERP de uma empresa não manda limite, todo pedido a prazo dela vai para aprovação | **A** |
+| **P5** Campo "Quem aprova" vazio (critério 2) | Supervisor | Gerente | **B**: o campo já vem preenchido com Gerente, e o admin troca | **B**: os dois campos vêm com Gerente |
+| **P6** Rejeitar × Devolver ao vendedor (BKO › Pedidos), sem status novo | Rejeitar encerra (`Cancelado`); Devolver volta para corrigir (`Rejeitado`, "Corrigir pedido" no Campo) | só Aprovar e Rejeitar (o Rejeitado já volta ao vendedor) | **A**: as três ações pedidas, com os status que existem. O modulo-vendedor confirma a transição `pending_approval → cancelled` | **A** |
+
+Decisões do dono do produto em 18/11 (R-20261118-214740).
+
+## Pontos em aberto da P3 B
 | Ponto | A | B | Recomendação |
 |---|---|---|---|
-| **P1** Inadimplente com pedido à vista | vai para aprovação (muda a RN-VEN-13) | passa direto, como hoje | **A**: é o que diz a resposta 3 |
-| **P2** Quem aprova o inadimplente | o mesmo campo do crédito (um campo só: "Crédito e inadimplência") | a tabela de Alçadas | **A**: os dois são risco financeiro; um campo, uma regra |
-| **P3** Pedido com mais de um motivo | uma aprovação só, com o aprovador mais alto entre os motivos, e todos os motivos na tela | uma aprovação por motivo, em sequência | **A**: o aprovador decide uma vez vendo tudo |
-| **P4** Cliente sem limite informado pelo ERP | sem crédito: o pedido a prazo vai para aprovação com o motivo Crédito | sem trava: passa | **A**: mais seguro. Atenção: se o ERP de uma empresa não manda limite, todo pedido a prazo dela vai para aprovação |
-| **P5** Campo "Quem aprova" vazio (critério 2) | Supervisor | Gerente | **B**: o campo já vem preenchido com Gerente, e o admin troca |
-| **P6** Rejeitar × Devolver ao vendedor (BKO › Pedidos), sem status novo | Rejeitar encerra (`Cancelado`); Devolver volta para corrigir (`Rejeitado`, "Corrigir pedido" no Campo) | só Aprovar e Rejeitar (o Rejeitado já volta ao vendedor) | **A**: as três ações pedidas, com os status que existem. O modulo-vendedor confirma a transição `pending_approval → cancelled` |
+| **P7** As aprovações acontecem ao mesmo tempo ou em ordem? | ao mesmo tempo: cada aprovador decide quando quiser; o pedido sai quando todas aprovarem | em ordem: crédito → inadimplência → desconto | **A**: mais rápido; nenhum motivo depende do outro. A prancha 02 mostra a inadimplência aprovada antes do crédito |
+| **P8** A rejeição de um motivo devolve o pedido inteiro? | sim: uma rejeição encerra as outras aprovações pendentes e o pedido segue o P6 (Rejeitar = `Cancelado`; Devolver = `Rejeitado` com "Corrigir pedido") | não: as outras continuam e o vendedor só vê o resultado no fim | **A**: o vendedor corrige uma vez; ninguém aprova o que já caiu. A 3ª tela da prancha 02 mostra o crédito devolvido e a etapa pendente encerrada |
 
 ## 3. Depois da aprovação
 - gerente-projetos: RN-VEN-12 e RN-VEN-13 no doc 03 com a decisão.

diff --git a/.coord/diario/designer-ux.md b/.coord/diario/designer-ux.md
@@ -166,3 +166,4 @@
 2026-11-16 — v1.0.14 catalogo — #441: RD-1700 a RD-1703 e MC-1520 a MC-1523 (cartão com fonte única no v2, IconPacote web saiu, botão de estoque por filial só com mais de uma filial, apoio da folha sem o código, pesos 600 e escala do app, título da folha 22/700).
 2026-11-17 — v1.0.14 parametros — ListaParametros, valorComPadrao e formatarParametro (min, pct, dias, unidade) no kit web (packages/ui/src/web/lista-parametros.tsx, 8 testes), para Pesquisa, Trade e Treinamento fecharem a RD-1583 e a RD-1584; mesmo visual de hoje (rótulo 15/600, Padrão 13 em ink-2, MC-1515); refeito no Cline.
 2026-11-19 — T-0184 e MC-1503 — simulação do P-6 (Parâmetros › Pedidos com Quem aprova o crédito e a inadimplência, motivo no Histórico do Campo e na fila da Gestão) e da tabela simples de Pedidos do BKO em docs/design/pedido-aprovacao/; inkDisabled #5B6673 (MC-1503 B); MC-1522 A conferido (nome do cartão 16/600 em modules/catalogo/app/telas/comum.tsx:158 e na spec do Catálogo v2).
+2026-11-19 — T-0184 — #492: decisões P1-P6 do dono do produto nas pranchas (dois aprovadores, uma aprovação por motivo), P7 e P8 abertos; MC-1743 a 1747 e RD-2230 a 2235 corrigidos.
